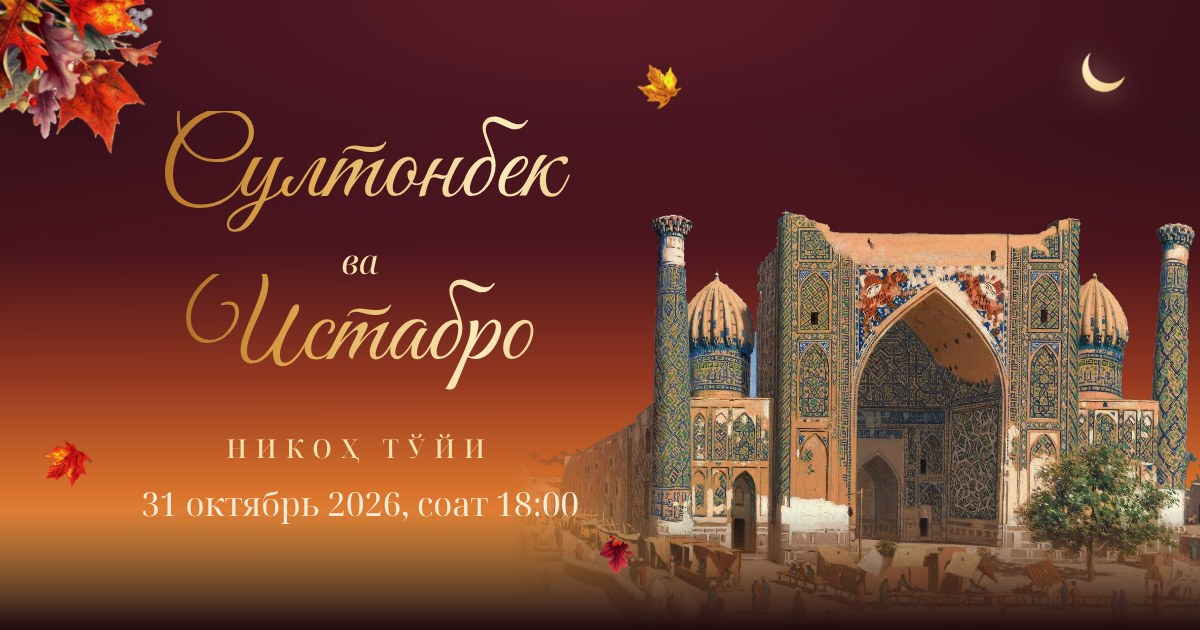
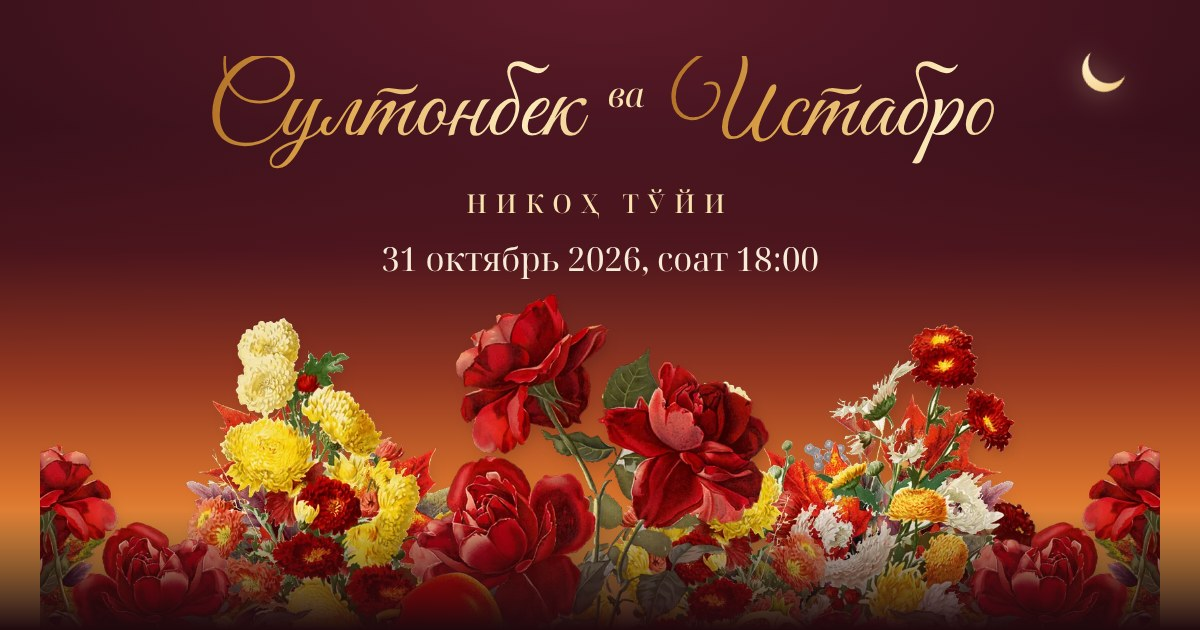
Flowers instead of buildings; framed date with a gesture hint
Roses and chrysanthemums from Prang chromolithographs replace the
Samarkand paintings. The date sits in a gold frame, and a hand sweeps
across the leaves to show the gesture, clearing a strip on its first pass.

Claude-Session: https://claude.ai/code/session_018roHYMu9TMLW9VEVJRbBmy

diff --git a/assets/style.css b/assets/style.css
@@ -74,7 +74,7 @@ html[lang="uz-Latn"] .sheet__names{margin:.3em 0 -.4em}
 .moon{display:block;aspect-ratio:1;filter:drop-shadow(0 0 14px rgba(246,231,176,.55))}
 .sky__moon{
   display:none;position:fixed;z-index:55;pointer-events:none;top:0;right:calc(50% - 400px);width:78px;
-  transform:translateY(calc((60 - 50 * var(--p)) * 1vh)) rotate(-20deg);will-change:transform;
+  transform:translateY(calc((24 - 14 * var(--p)) * 1vh)) rotate(-20deg);will-change:transform;
 }
 .sky__dusk{display:none}
 
@@ -107,14 +107,15 @@ html[lang="uz-Latn"] .sheet__names{margin:.3em 0 -.4em}
 .gate__hint{font-style:italic;font-size:1rem;color:var(--paper)}
 
 .env{
-  position:relative;width:min(84vw,360px);aspect-ratio:3/2;
+  position:relative;width:min(78vw,360px);aspect-ratio:3/2;
   margin:clamp(40px,9vh,84px) 0 clamp(36px,7vh,64px);
   perspective:1100px;cursor:pointer;
   filter:drop-shadow(0 24px 26px rgba(20,6,6,.5));
 }
 .env__leaves{position:absolute;z-index:0;display:block;height:auto;pointer-events:none}
-.env__leaves--a{width:56%;left:-19%;bottom:-36%;transform:rotate(-132deg)}
-.env__leaves--b{width:48%;right:-15%;top:-40%;transform:rotate(46deg)}
+.env__leaves--a{width:52%;left:-17%;bottom:-36%;transform:rotate(-130deg)}
+.env__leaves--b{width:34%;right:-9%;top:-46%;transform:rotate(38deg)}
+.env__leaves--c{width:46%;right:-20%;top:-22%;transform:rotate(78deg)}
 .env__back{
   position:absolute;inset:0;border-radius:5px;
   background:var(--girih) 50% 0/30px 30px,linear-gradient(180deg,#8A2633,#5A1622);
@@ -179,10 +180,10 @@ main{position:relative;z-index:1}
 
 /* ---------- hero ---------- */
 .hero{
-  --vista:clamp(400px,min(133vw,80svh),980px);
+  --vista:clamp(520px,min(190vw,120svh),1700px);
   position:relative;isolation:isolate;overflow:hidden;min-height:100vh;min-height:100svh;
   display:flex;flex-direction:column;align-items:center;justify-content:center;text-align:center;
-  padding:84px 16px calc(var(--vista) * .62 + 6px);
+  padding:84px 16px calc(var(--vista) * .385);
 }
 .hero::before{content:"";position:absolute;inset:0;z-index:-1;background:var(--dusk)}
 .hero__names{margin:0;font-weight:400;display:flex;flex-direction:column;align-items:center;line-height:1}
@@ -198,24 +199,22 @@ main{position:relative;z-index:1}
 .hero__scroll svg{width:22px;height:11px;animation:nudge 2.2s ease-in-out infinite}
 @keyframes nudge{0%,100%{transform:translateY(0)}50%{transform:translateY(5px)}}
 
-/* Vereshchagin's Samarkand, lifted off its daytime sky and set against the autumn sunset */
+/* a border of roses and chrysanthemums from Prang's chromolithographs, standing in the sunset */
 .vista{
   position:absolute;left:50%;bottom:0;z-index:1;display:block;max-width:none;height:auto;pointer-events:none;
-  width:var(--vista);transform:translateX(-54%);
-  filter:sepia(.16) saturate(1.06) brightness(.95);
+  width:var(--vista);transform:translateX(-50%);
 }
 .hero::after,.wait::after{
-  content:"";position:absolute;left:0;right:0;bottom:0;height:130px;z-index:1;pointer-events:none;
-  background:linear-gradient(to top,var(--ground) 4%,rgba(31,9,13,0) 100%);
+  content:"";position:absolute;left:0;right:0;bottom:0;height:80px;z-index:1;pointer-events:none;
+  background:linear-gradient(to top,var(--ground) 6%,rgba(31,9,13,0) 100%);
 }
-.vista--late{transform:translateX(-50%);filter:sepia(.3) saturate(.95) brightness(.7) contrast(1.05)}
+.vista--late{transform:translateX(-50%) scaleX(-1);filter:brightness(.82) saturate(.95)}
 @media (min-width:700px){
-  .vista{transform:translateX(-50%);
-    -webkit-mask-image:linear-gradient(90deg,transparent 0,#000 16%,#000 84%,transparent 100%);
-    mask-image:linear-gradient(90deg,transparent 0,#000 16%,#000 84%,transparent 100%)}
+  .vista{-webkit-mask-image:linear-gradient(90deg,transparent 0,#000 9%,#000 91%,transparent 100%);
+    mask-image:linear-gradient(90deg,transparent 0,#000 9%,#000 91%,transparent 100%)}
 }
 .hero__moon{position:absolute;z-index:0;right:11%;top:clamp(58px,10vh,104px);width:44px;transform:rotate(-20deg)}
-.wait__moon{position:absolute;right:9%;bottom:calc(var(--vista) * .66);width:38px;transform:rotate(-20deg)}
+.wait__moon{position:absolute;right:9%;bottom:calc(var(--vista) * .4);width:38px;transform:rotate(-20deg)}
 
 body.is-open .hero__inner > *,
 body.is-open .hero__names > *{animation:arrive 1.5s cubic-bezier(.2,.7,.2,1) both}
@@ -236,7 +235,7 @@ body.is-open .hero__when{animation-delay:1.45s}
 .sheet__rule{fill:none;stroke:var(--gold);stroke-width:1.2}
 .sheet__orn path{fill:none;stroke:var(--gold);stroke-width:1.1}
 .deco{position:absolute;z-index:3;display:block;height:auto;pointer-events:none;filter:drop-shadow(0 8px 10px rgba(16,4,6,.38))}
-.sheet__deco--top{width:30%;right:-9%;top:-3.5%;transform:rotate(40deg)}
+.sheet__deco--top{width:34%;right:-11%;top:-2.5%;transform:rotate(18deg)}
 .sheet__deco--bottom{width:38%;left:-13%;bottom:-92px;transform:rotate(-128deg)}
 .sheet__deco--anor{width:23%;left:8%;bottom:-52px;transform:rotate(-14deg)}
 .tile__deco--anor{width:29%;right:-5%;top:-40px;transform:rotate(16deg)}
@@ -262,12 +261,27 @@ body.is-open .hero__when{animation-delay:1.45s}
 
 /* ---------- the day ---------- */
 .day{padding:72px 20px 76px}
-.day__hint{margin:.5em 0 22px;font-style:italic;color:var(--soft);transition:opacity .4s}
-.ticket{
-  position:relative;width:min(100%,318px);aspect-ratio:16/10;margin:0 auto;border-radius:3px;overflow:hidden;
-  background:var(--grain),var(--paper);color:var(--ink);
-  box-shadow:0 20px 40px rgba(16,4,6,.5);
+.day__hint{text-wrap:balance;margin:.5em 0 26px;font-style:italic;color:var(--soft);transition:opacity .4s}
+.frame{
+  position:relative;width:min(100%,344px);margin:0 auto;padding:11px;border-radius:7px;
+  background:var(--foil);background-size:220% 100%;background-position:calc(var(--shine) * 1%) 0;
+  box-shadow:0 24px 46px rgba(16,4,6,.55),inset 0 0 0 1px rgba(255,246,210,.75),inset 0 0 0 4px rgba(120,70,14,.5);
 }
+.frame::before{content:"";position:absolute;inset:6px;border:1px solid rgba(86,46,8,.6);border-radius:4px;pointer-events:none}
+.frame__deco--a{width:34%;left:-13%;bottom:-17%;transform:rotate(-124deg)}
+.frame__deco--b{width:30%;right:-12%;top:-15%;transform:rotate(22deg)}
+.ticket{
+  position:relative;width:100%;aspect-ratio:16/10;border-radius:2px;overflow:hidden;
+  background:var(--grain),var(--paper);color:var(--ink);
+  box-shadow:0 0 0 1px rgba(60,30,6,.7),inset 0 2px 8px rgba(16,4,6,.25);
+}
+.ticket__hand{
+  position:absolute;left:0;top:0;z-index:4;width:44px;height:44px;pointer-events:none;opacity:0;
+  fill:#FFF8E7;stroke:#3B1A12;stroke-width:12;stroke-linejoin:round;paint-order:stroke;
+  transform-origin:19px 3px;transition:opacity .35s ease;
+  filter:drop-shadow(0 3px 5px rgba(16,4,6,.55));
+}
+.ticket.is-open .ticket__hand{display:none}
 .ticket__face{position:absolute;inset:0;display:flex;flex-direction:column;align-items:center;justify-content:center;line-height:1.2}
 .ticket__face::before{content:"";position:absolute;inset:7px;border:1px solid var(--gold);pointer-events:none}
 .ticket__wd{font-style:italic;font-weight:500;font-size:1.1rem;color:var(--rust)}
@@ -328,7 +342,7 @@ body.is-open .hero__when{animation-delay:1.45s}
 .link svg{width:18px;height:18px;flex:none}
 
 /* ---------- until then ---------- */
-.wait{--vista:clamp(400px,min(133vw,80svh),980px);position:relative;isolation:isolate;overflow:hidden;padding:72px 20px calc(var(--vista) * .6 + 10px);text-align:center}
+.wait{--vista:clamp(520px,min(190vw,120svh),1700px);position:relative;isolation:isolate;overflow:hidden;padding:72px 20px calc(var(--vista) * .39);text-align:center}
 .wait::before{content:"";position:absolute;inset:auto 0 0 0;height:min(70%,520px);z-index:-1;
   background:linear-gradient(to top,rgba(232,136,50,.62) 0%,rgba(184,80,31,.4) 26%,rgba(112,30,36,.18) 60%,transparent 100%)}
 .wait__label{font-style:italic;font-size:1.2rem;color:var(--soft)}

diff --git a/assets/app.js b/assets/app.js
@@ -29,7 +29,7 @@
       l_p2: 'ларнинг никоҳ тўйлари муносабати билан 2026 йил 31 октябрь куни соат 18:00 да бўлиб ўтадиган «Висол оқшоми»га таклиф этамиз.',
       l_sign1: 'Ҳурмат ва эҳтиром ила',
       l_sign2: 'АБДУМАЛИК ХОЖИ ота ўғли АШРАФ СОДИКОВлар оиласи',
-      d_title: 'Тўй куни', d_hint: 'Япроқларни бармоғингиз билан суринг', d_done: 'Ана шу кун!', d_open: 'Очиш',
+      d_title: 'Тўй куни', d_hint: 'Япроқларни бармоғингиз билан суриб, санани очинг', d_done: 'Ана шу кун!', d_open: 'Очиш',
       d_weekday: 'шанба', d_month: 'октябрь 2026', d_time: 'соат 18:00',
       cal_title: 'Октябрь 2026', wd: ['Ду', 'Се', 'Чор', 'Пай', 'Жу', 'Шан', 'Як'],
       v_title: 'Вақт ва манзил', v_name: '«PRIMIER HALL» ресторани', v_addr: 'Қибрай тумани, Маданият массив',
@@ -58,7 +58,7 @@
       l_p2: 'larning nikoh to‘ylari munosabati bilan 2026-yil 31-oktabr kuni soat 18:00 da bo‘lib o‘tadigan «Visol oqshomi»ga taklif etamiz.',
       l_sign1: 'Hurmat va ehtirom ila',
       l_sign2: 'ABDUMALIK HOJI ota o‘g‘li ASHRAF SODIKOVlar oilasi',
-      d_title: 'To‘y kuni', d_hint: 'Yaproqlarni barmog‘ingiz bilan suring', d_done: 'Ana shu kun!', d_open: 'Ochish',
+      d_title: 'To‘y kuni', d_hint: 'Yaproqlarni barmog‘ingiz bilan surib, sanani oching', d_done: 'Ana shu kun!', d_open: 'Ochish',
       d_weekday: 'shanba', d_month: 'oktabr 2026', d_time: 'soat 18:00',
       cal_title: 'Oktabr 2026', wd: ['Du', 'Se', 'Chor', 'Pay', 'Ju', 'Shan', 'Yak'],
       v_title: 'Vaqt va manzil', v_name: '«PRIMIER HALL» restorani', v_addr: 'Qibray tumani, Madaniyat massivi',
@@ -87,7 +87,7 @@
       l_p2: '«Висол оқшоми» состоится 31 октября 2026 года в 18:00.',
       l_sign1: 'С уважением и почтением,',
       l_sign2: 'семья АШРАФА СОДИКОВА, сына АБДУМАЛИКА ХОЖИ ота',
-      d_title: 'День свадьбы', d_hint: 'Смахните листья пальцем', d_done: 'Вот этот день!', d_open: 'Открыть',
+      d_title: 'День свадьбы', d_hint: 'Смахните листья пальцем — под ними дата', d_done: 'Вот этот день!', d_open: 'Открыть',
       d_weekday: 'суббота', d_month: 'октября 2026', d_time: 'в 18:00',
       cal_title: 'Октябрь 2026', wd: ['Пн', 'Вт', 'Ср', 'Чт', 'Пт', 'Сб', 'Вс'],
       v_title: 'Время и место', v_name: 'Ресторан «PRIMIER HALL»', v_addr: 'Кибрайский район, массив Маданият',
@@ -312,13 +312,15 @@
 
   /* ---------- the date under a drift of leaves ---------- */
   (() => {
-    const ticket = $('#ticket'), cv = $('#foil'), hint = $('#scratchHint');
+    const ticket = $('#ticket'), cv = $('#foil'), hint = $('#scratchHint'), hand = $('#hand');
     const ctx = cv.getContext('2d', { willReadFrequently: true });
-    let down = false, lx = 0, ly = 0, started = false, lastCheck = 0;
+    let down = false, lx = 0, ly = 0, started = false, lastCheck = 0, paintedW = 0;
+    let inView = false, demoRuns = 0, demoTimer = 0, demoBusy = false;
 
     function paint() {
       const r = cv.getBoundingClientRect();
       if (!r.width) return;
+      paintedW = r.width; demoRuns = 0;
       const dpr = Math.min(window.devicePixelRatio || 1, 2);
       cv.width = Math.round(r.width * dpr); cv.height = Math.round(r.height * dpr);
       ctx.setTransform(dpr, 0, 0, dpr, 0, 0);
@@ -366,8 +368,44 @@
     }
     const pos = e => { const r = cv.getBoundingClientRect(); return [e.clientX - r.left, e.clientY - r.top]; };
 
+    // The hint: a hand sweeps across the leaves, and on its first pass really clears a strip
+    function demo() {
+      clearTimeout(demoTimer);
+      if (started || revealed || reduce || !inView || demoBusy) return;
+      const r = cv.getBoundingClientRect(), w = r.width, h = r.height;
+      const pts = [[.86, .9], [.2, .74], [.8, .62]];
+      const clears = demoRuns++ === 0, t0 = performance.now(), T = 1900;
+      let px = null, py = null;
+      demoBusy = true; hand.style.opacity = 1;
+      (function step(now) {
+        if (started || revealed) { hand.style.opacity = 0; demoBusy = false; return; }
+        const t = Math.min(1, Math.max(0, (now - t0) / T));
+        const seg = t < .55 ? 0 : 1, k = seg ? (t - .55) / .45 : t / .55;
+        const e = k < .5 ? 2 * k * k : 1 - Math.pow(-2 * k + 2, 2) / 2;
+        const x = (pts[seg][0] + (pts[seg + 1][0] - pts[seg][0]) * e) * w;
+        const y = (pts[seg][1] + (pts[seg + 1][1] - pts[seg][1]) * e) * h;
+        hand.style.transform = `translate(${(x - 19).toFixed(1)}px,${(y - 3).toFixed(1)}px) rotate(-14deg)`;
+        if (clears && px !== null) {
+          ctx.globalCompositeOperation = 'destination-out';
+          ctx.lineWidth = 28; ctx.lineCap = 'round';
+          ctx.beginPath(); ctx.moveTo(px, py); ctx.lineTo(x, y); ctx.stroke();
+          ctx.globalCompositeOperation = 'source-over';
+          if (Math.random() > .62) sky.fling(r.left + x, r.top + y, x - px, y - py);
+        }
+        px = x; py = y;
+        if (t < 1) requestAnimationFrame(step);
+        else { hand.style.opacity = 0; demoBusy = false; demoTimer = setTimeout(demo, 2400); }
+      })(t0);
+    }
+    if ('IntersectionObserver' in window) {
+      new IntersectionObserver(es => {
+        inView = es[0].isIntersecting;
+        if (inView) demoTimer = setTimeout(demo, 600); else clearTimeout(demoTimer);
+      }, { threshold: .8 }).observe(ticket);
+    }
+
     cv.addEventListener('pointerdown', e => {
-      down = true; started = true; [lx, ly] = pos(e);
+      down = true; started = true; hand.style.opacity = 0; [lx, ly] = pos(e);
       try { cv.setPointerCapture(e.pointerId); } catch (err) { /* ok */ }
       scratch(lx + 0.1, ly + 0.1);
       sky.fling(e.clientX, e.clientY, 0, 0);
@@ -383,7 +421,9 @@
 
     paint();
     spritesReady.then(() => { if (!started && !revealed) paint(); });
-    addEventListener('resize', () => { if (!started && !revealed) paint(); });
+    addEventListener('resize', () => {
+      if (!started && !revealed && !demoBusy && Math.abs(cv.getBoundingClientRect().width - paintedW) > 1) paint();
+    });
   })();
 
   /* ---------- bottom sheet: maps and calendars ---------- */

diff --git a/index.html b/index.html
@@ -65,8 +65,9 @@
   <p class="gate__dear" data-i18n="gate_dear">Азиз меҳмонимиз</p>
 
   <div class="env" id="env">
-    <img class="env__leaves env__leaves--a" src="assets/art/bouquet.webp" width="760" height="1103" alt="">
-    <img class="env__leaves env__leaves--b" src="assets/art/bouquet.webp" width="760" height="1103" alt="">
+    <img class="env__leaves env__leaves--a" src="assets/art/roses.webp" width="560" height="807" alt="">
+    <img class="env__leaves env__leaves--b" src="assets/art/chrys.webp" width="420" height="789" alt="">
+    <img class="env__leaves env__leaves--c" src="assets/art/bouquet.webp" width="760" height="1103" alt="">
     <div class="env__back"></div>
     <div class="env__card">
       <span class="script foil" data-i18n="groom">Султонбек</span>
@@ -122,7 +123,7 @@
       <p class="hero__when"><span data-i18n="hero_date">31 октябрь 2026</span><br><span data-i18n="hero_time">шанба, соат 18:00</span></p>
     </div>
     <svg class="moon hero__moon" aria-hidden="true"><use href="#moon"/></svg>
-    <img class="vista" src="assets/art/sherdor.webp" width="1500" height="903" alt="" decoding="async">
+    <img class="vista" src="assets/art/garden.webp" width="1700" height="626" alt="" decoding="async">
     <a class="hero__scroll" href="#letter"><span data-i18n="scroll">Пастга суринг</span>
       <svg viewBox="0 0 24 12" aria-hidden="true"><path d="M3 2l9 8 9-8" fill="none" stroke="currentColor" stroke-width="1.4" stroke-linecap="round" stroke-linejoin="round"/></svg>
     </a>
@@ -139,7 +140,7 @@
           <path d="M-34 0h-50M34 0h50"/>
         </g>
       </svg>
-      <img class="deco sheet__deco--top" src="assets/art/bouquet.webp" width="760" height="1103" alt="" loading="lazy">
+      <img class="deco sheet__deco--top" src="assets/art/rose.webp" width="560" height="647" alt="" loading="lazy">
       <img class="deco sheet__deco--bottom" src="assets/art/bouquet.webp" width="760" height="1103" alt="" loading="lazy">
       <img class="deco sheet__deco--anor" src="assets/art/anor.webp" width="520" height="506" alt="" loading="lazy">
       <div class="sheet__body">
@@ -159,8 +160,11 @@
   <section class="day" id="day">
     <div class="col">
       <h2 class="title" data-i18n="d_title">Тўй куни</h2>
-      <p class="day__hint" id="scratchHint" data-i18n="d_hint">Япроқларни бармоғингиз билан суринг</p>
+      <p class="day__hint" id="scratchHint" data-i18n="d_hint">Япроқларни бармоғингиз билан суриб, санани очинг</p>
 
+      <div class="frame">
+      <img class="deco frame__deco--a" src="assets/art/bouquet.webp" width="760" height="1103" alt="" loading="lazy">
+      <img class="deco frame__deco--b" src="assets/art/rose.webp" width="560" height="647" alt="" loading="lazy">
       <div class="ticket" id="ticket">
         <div class="ticket__face">
           <span class="ticket__wd" data-i18n="d_weekday">шанба</span>
@@ -169,7 +173,9 @@
           <span class="ticket__time" data-i18n="d_time">соат 18:00</span>
         </div>
         <canvas class="ticket__foil" id="foil" aria-hidden="true"></canvas>
+        <svg class="ticket__hand" id="hand" viewBox="0 0 256 256" aria-hidden="true"><path d="M224,104v50.93c0,46.2-36.85,84.55-83,85.06A83.71,83.71,0,0,1,80.6,215.4C58.79,192.33,34.15,136,34.15,136a16,16,0,0,1,6.53-22.23c7.66-4,17.1-.84,21.4,6.62l21,36.44a6.09,6.09,0,0,0,6,3.09l.12,0A8.19,8.19,0,0,0,96,151.74V32a16,16,0,0,1,16.77-16c8.61.4,15.23,7.82,15.23,16.43V104a8,8,0,0,0,8.53,8,8.17,8.17,0,0,0,7.47-8.25V88a16,16,0,0,1,16.77-16c8.61.4,15.23,7.82,15.23,16.43V112a8,8,0,0,0,8.53,8,8.17,8.17,0,0,0,7.47-8.25v-7.28c0-8.61,6.62-16,15.23-16.43A16,16,0,0,1,224,104Z"/></svg>
         <button class="ticket__open" id="foilOpen" type="button" data-i18n="d_open">Очиш</button>
+      </div>
       </div>
 
       <div class="cal" aria-label="Октябрь 2026" data-i18n-aria="cal_title">
@@ -219,7 +225,7 @@
       <a class="wait__top" href="#top" data-i18n="c_top">Бошига қайтиш</a>
     </div>
     <svg class="moon wait__moon" aria-hidden="true"><use href="#moon"/></svg>
-    <img class="vista vista--late" src="assets/art/shohizinda.webp" width="1500" height="912" alt="" loading="lazy" decoding="async">
+    <img class="vista vista--late" src="assets/art/garden.webp" width="1700" height="626" alt="" loading="lazy" decoding="async">
   </section>
 </main>
 

diff --git a/CREDITS.md b/CREDITS.md
@@ -1,13 +1,14 @@
 # Иллюстрации
 
-Все изображения на сайте — работы в общественном достоянии (public domain), взяты с Wikimedia Commons
-и обработаны для сайта (вырезан фон, цветокоррекция).
+Все изображения на сайте — работы в общественном достоянии (public domain), обработаны для сайта
+(вырезан фон, собраны в композицию).
 
 | Где на сайте | Работа | Источник |
 |---|---|---|
-| Вид внизу первого экрана | Василий Верещагин, «Медресе Шир-Дор на площади Регистан в Самарканде», 1869–1870 (Третьяковская галерея) | [Commons](https://commons.wikimedia.org/wiki/File:Медресе_Шир-Дор_на_площади_Регистан_в_Самарканде.jpg) |
-| Вид внизу последнего экрана | Василий Верещагин, «Мавзолей Шах-и-Зинда в Самарканде», 1869–1870 | [Commons](https://commons.wikimedia.org/wiki/File:Мавзолей_Шах-и-Зинда_в_Самарканде.jpg) |
-| Букеты листьев, падающие листья, листья над датой | L. Prang & Co., «Autumn leaves», хромолитография, XIX век (Boston Public Library / DPLA) | [Commons](https://commons.wikimedia.org/wiki/File:Autumn_leaves_-_DPLA_-_8585f7b408f51cd262dcc96b5454a69c.jpg) |
-| Гранаты | Otto Wilhelm Thomé, «Flora von Deutschland, Österreich und der Schweiz», 1885, Punica granatum | [Commons](https://commons.wikimedia.org/wiki/File:Illustration_Punica_granatum2.jpg) |
+| Цветы внизу первого и последнего экрана, у конверта | Ellen T. Fisher, «Yellow and red chrysanthemums» (1884) и «White and red chrysanthemums», хромолитографии L. Prang & Co. | Boston Public Library: [1](https://ark.digitalcommonwealth.org/ark:/50959/gt54kn42k), [2](https://ark.digitalcommonwealth.org/ark:/50959/gt54kn70r) |
+| Красные розы | Grace Barton Allen, «Red roses»; «Red rose» (1877), хромолитографии L. Prang & Co. | Boston Public Library: [1](https://ark.digitalcommonwealth.org/ark:/50959/z890rx02c), [2](https://ark.digitalcommonwealth.org/ark:/50959/7w62f856p) |
+| Букеты листьев, падающие листья, листья над датой | L. Prang & Co., «Autumn leaves», хромолитография (Boston Public Library / DPLA) | [Wikimedia Commons](https://commons.wikimedia.org/wiki/File:Autumn_leaves_-_DPLA_-_8585f7b408f51cd262dcc96b5454a69c.jpg) |
+| Гранаты | Otto Wilhelm Thomé, «Flora von Deutschland, Österreich und der Schweiz», 1885, Punica granatum | [Wikimedia Commons](https://commons.wikimedia.org/wiki/File:Illustration_Punica_granatum2.jpg) |
+| Значок руки в подсказке | Phosphor Icons, лицензия MIT | [phosphoricons.com](https://phosphoricons.com) |
 
 Конверт, печать, полумесяц и орнамент нарисованы кодом.
